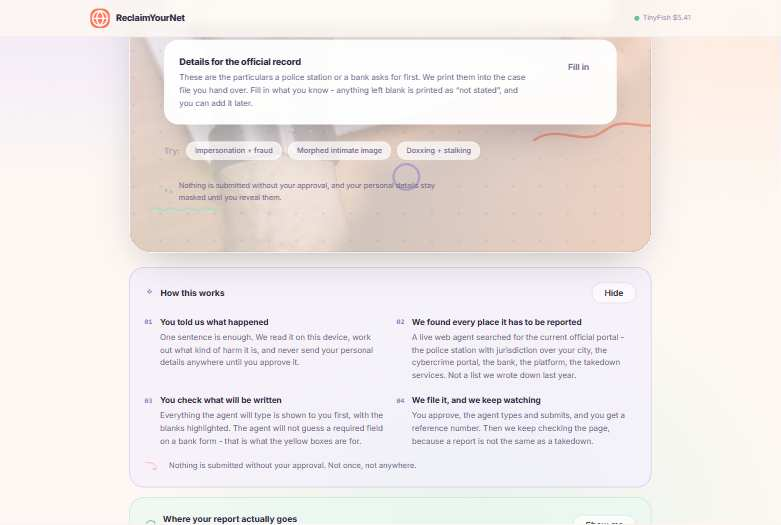
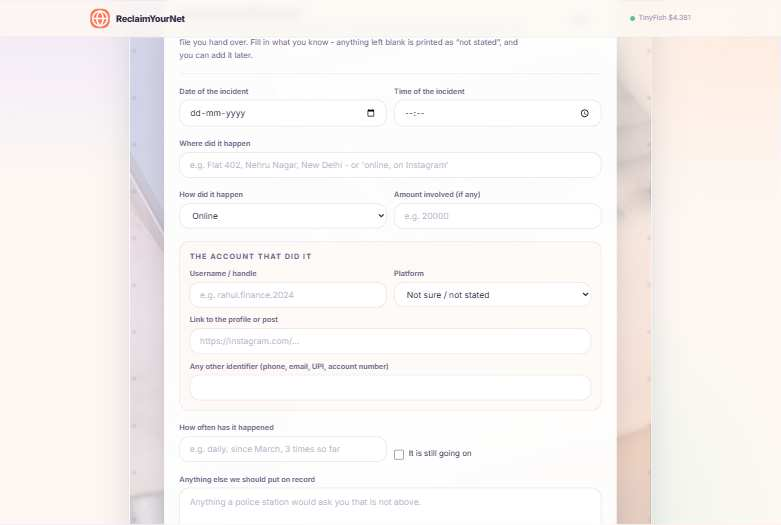
docs: the README shots now show whole cards, and the case file is described properly
The capture script scrolls a card into view instead of clipping its
heading, so the shot shows the form the reader is meant to see. The
README also spells out what the exported case file actually contains -
the particulars, the statement, the filing rows, the annexures and the
declaration to sign.

Changed region(s): [[0.1536, 0.0305, 0.8604, 1.0], [0.7375, 0.1219, 0.7682, 0.1524]]

diff --git a/README.md b/README.md
@@ -53,7 +53,7 @@ You're scared and do not know where to go for help and nobody seems to have just
 | 5 | **Read** - the agent opens the real page and reads the form it actually has today | **TinyFish Web Agent** |
 | 6 | **Review** - the victim sees every value that will be typed, with sensitive fields masked | Victim |
 | 7 | **File** - the agent types the approved values, stops, and submits only on a second explicit approval | **TinyFish Web Agent** |
-| 8 | **Prove** - every page read, reference number and submission goes into a SHA-256 hash chain, exportable as a case-file PDF | ReclaimYourNet |
+| 8 | **Prove** - every page read, reference number and submission goes into a SHA-256 hash chain, and the case file it exports is a printable record a police station will accept: the complainant's particulars, when and where it happened, the account responsible, the reporter's own annexures, and a declaration to sign | ReclaimYourNet |
 | 9 | **Follow up** - monitors re-check the reported URL and tell you whether the content actually came down | **TinyFish Monitor** |
 
 **The design principle: nothing about the world is hard-coded.** The channel
@@ -344,25 +344,31 @@ packages/core/                the triage engine (no network, no dependencies)
   src/ml/entities.ts          amount / platform / URL / phone / date extraction
   src/triage.ts               triage + urgency + hard-signal rules
   src/planner.ts              labels -> prioritised channels, deadlines, gaps
+  src/casefile.ts             the case file: particulars, statement, filing rows
+  src/evidence.ts             what an uploaded file actually is
   src/taxonomy.ts             incident types, platforms, authorities, protections
   scripts/eval-classifier.ts  the evaluation table in this README
 apps/api/                     Fastify API
   src/tinyfish/client.ts      Search / Fetch / Agent(SSE) / Monitor / Wallet
   src/pipeline/orchestrator.ts  discover -> analyse -> file -> monitor
-  src/casereport/pdf.ts       the case-file PDF
+  src/casereport/pdf.ts       the printable case file (PDFKit)
+  src/casereport/uploads.ts   the reporter's own files, hashed
   src/routes.ts               /api/action - one streamed route for every action
   demo-portals/               clones of the real forms, for practice mode
 apps/web/                     React + Vite + Tailwind client
-  src/components/Intake.tsx       the question box
+  src/components/Intake.tsx       the question box + the particulars for the record
   src/components/HowItWorks.tsx   the four-step guide
   src/components/YourDetails.tsx   editable name / email / mobile / city
+  src/components/CaseDetails.tsx  the particulars for the official record
   src/components/MissingFields.tsx the collapsible "only what is required" panel
   src/components/CoverageMap.tsx  the places to report, ranked
   src/components/AgentTheatre.tsx the live browser + timeline + log
   src/components/EvidenceVault.tsx the hash chain + the case file + monitors
+  src/components/EvidenceUpload.tsx attaching your own screenshots and videos
   src/components/Privacy.tsx      where your report actually goes
 api/[...path].ts              Vercel serverless entry
 scripts/build_pptx.py          builds the submission .pptx from docs/PPT.md
+scripts/capture.mjs            re-takes the README screenshots from the live app
 docs/PPT.md                   the judge-facing pitch deck
 docs/PLAN.md                  what was built, and why
 docs/DEMO.md                  the timed demo script
